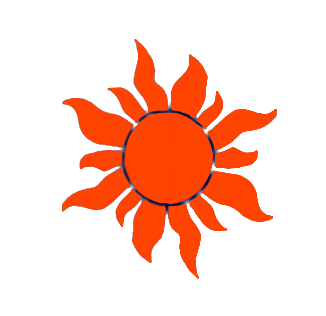
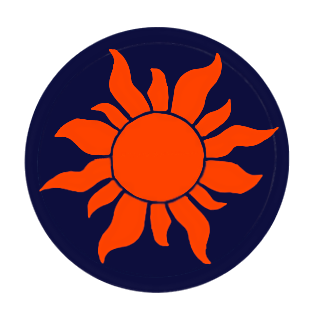
edits

diff --git a/my_phenakistoscope.js b/my_phenakistoscope.js
@@ -33,23 +33,28 @@ function setup_layers(pScope){
  ringOne.mode(RING);
  ringOne.set_boundary(400, 600);
 
-  var lanternSequence = new PLayer(release);
+  var lanternSequence = new PLayer(release); //people releasing lantern sequence
   lanternSequence.mode(RING);
   lanternSequence.set_boundary( 200, 1000 );
 
-  var lanternImage = new PLayer(lantern);
-  lanternImage.mode(SWIRL(8));
-  lanternImage.set_boundary( 380, 800 );
 
-  var starImage = new PLayer(stars);
+  var starImage = new PLayer(stars); //shaped stars rotating at top of PScope
   starImage.mode(RING);
   starImage.set_boundary(950,20);
 
-  var starsColor = new PLayer(allStars)
+  var starsStay = new PLayer(stillStars) //still, plain white circle stars with no animation
+ starsStay.mode (RING);
+ starsStay.set_boundary (950, 20);
+
+  var starsColor = new PLayer(animatedStars) //colour changing circle stars
  starsColor.mode (RING);
  starsColor.set_boundary (950, 20);
 
-  var sunImage = new PLayer(sun);
+ var lanternImage = new PLayer(lantern); //lanterns going out
+ lanternImage.mode(SWIRL(8));
+ lanternImage.set_boundary( 380, 1100 );
+
+  var sunImage = new PLayer(sun); // centre sun
   sunImage.mode(RING);
   sunImage.set_boundary(0,0);
 
@@ -57,40 +62,49 @@ function setup_layers(pScope){
 
 }
 
-//function release(x, y, animation, pScope){
-  translate(x,y);
-  scale(1);
-  pScope.draw_image_from_sequence("lanternRelease", 0, 600, animation.frame);
-
-
-//}
-
 function fourthRing(x, y, animation, pScope){
   pScope.fill_background(14, 16, 61); //3, 41, 49, 60
 }
 
 function thirdRing(x, y, animation, pScope){
   pScope.fill_background(14, 16, 61); //16, 39, 82
-  
-  
 }
 
 function secondRing(x, y, animation, pScope){
-  pScope.fill_background(14, 16, 61); //27, 55, 107
-  
+  pScope.fill_background(16, 39, 82); // 
 }
 
 function firstRing(x, y, animation, pScope){
   pScope.fill_background(14, 16, 61); //10, 41, 99
-  
 }
 
-function allStars(x,y,animation,pScope){
+
+
+function stillStars(x,y,animation,pScope){
+  scale(animation.wave*1);
+   noStroke();
+   fill(255);
+   ellipse(10, 950, 15, 15); //draws circle
+   ellipse(90, 980, 15, 15); //draws circle
+   ellipse(-90, 880, 15, 15); //draws circle
+   ellipse(-50, 900, 15, 15); //draws circle
+   ellipse(-300, 820, 15, 15); //draws circle
+   ellipse(-230, 950, 15, 15); //draws circle
+   ellipse(-200, 880, 15, 15); //draws circle
+  }
+
+
+function animatedStars(x,y,animation,pScope){
   
-  scale(animation.wave*2);
+ let StartColour = color(14, 16, 61);  //navy
+ let endColour = color(255); //white
+  let animatingColour = lerpColor(StartColour, endColour, animation.frame);
+
+  translate(70, -40);
+  scale(animation.wave*50);
   noStroke();
-  fill(255); //white
-  ellipse(30, 950, 15, 15); //draws circle
+  fill(animatingColour);
+  ellipse(10, 950, 15, 15); //draws circle
   ellipse(90, 980, 15, 15); //draws circle
   ellipse(70, 920, 15, 15); //draws circle
   ellipse(-90, 880, 15, 15); //draws circle
@@ -102,19 +116,16 @@ function allStars(x,y,animation,pScope){
   ellipse(-260, 850, 15, 15); //draws circle
   ellipse(-230, 950, 15, 15); //draws circle
   ellipse(-200, 880, 15, 15); //draws circle
-
   ellipse(300, 820, 15, 15); //draws circle
   ellipse(300, 820, 15, 15); //draws circle
- 
-
   ellipse(-30, 850, 15, 15); //draws circle
- //between 300 - -300x and 950 - 850y
  }
 
+
 function stars(x,y,animation,pScope){
- translate(80,990);
- scale(0.8);
- rotate(10*animation.frame);
+ translate(220,995);
+ scale(0.5);
+ rotate(180*animation.frame);
  //scale(2*animation.frame);
   pScope.draw_image("stars",x,y);
 }
@@ -122,24 +133,16 @@ function stars(x,y,animation,pScope){
 
 function lantern(x, y, animation, pScope){
   scale(0.08);
- 
-  
    scale(2*animation.frame);
  
    var lanternx = animation.wave(5)*500
    pScope.draw_image("lantern",lanternx,y);
- 
- 
- 
  }
 
 function release(x, y, animation, pScope){
  translate(x,y-370);
  scale(1);
  pScope.draw_image_from_sequence("lanternRelease", 0, 0, animation.frame);
-
-
-
 }
 
 function sun(x,y,animation,pScope){
@@ -147,10 +150,8 @@ function sun(x,y,animation,pScope){
   let backgroundArcStart = 270 - angleOffset;
   let backgroundArcEnd = 270 + angleOffset;
   fill(14, 16, 61)
-  arc(x,y,500,500,backgroundArcStart,backgroundArcEnd); // draws "pizza slice" in the background
-  
+  arc(x,y,500,500,backgroundArcStart,backgroundArcEnd);
   scale(animation.frame*2);
-
   pScope.draw_image("sun",x,y);
 
 }
